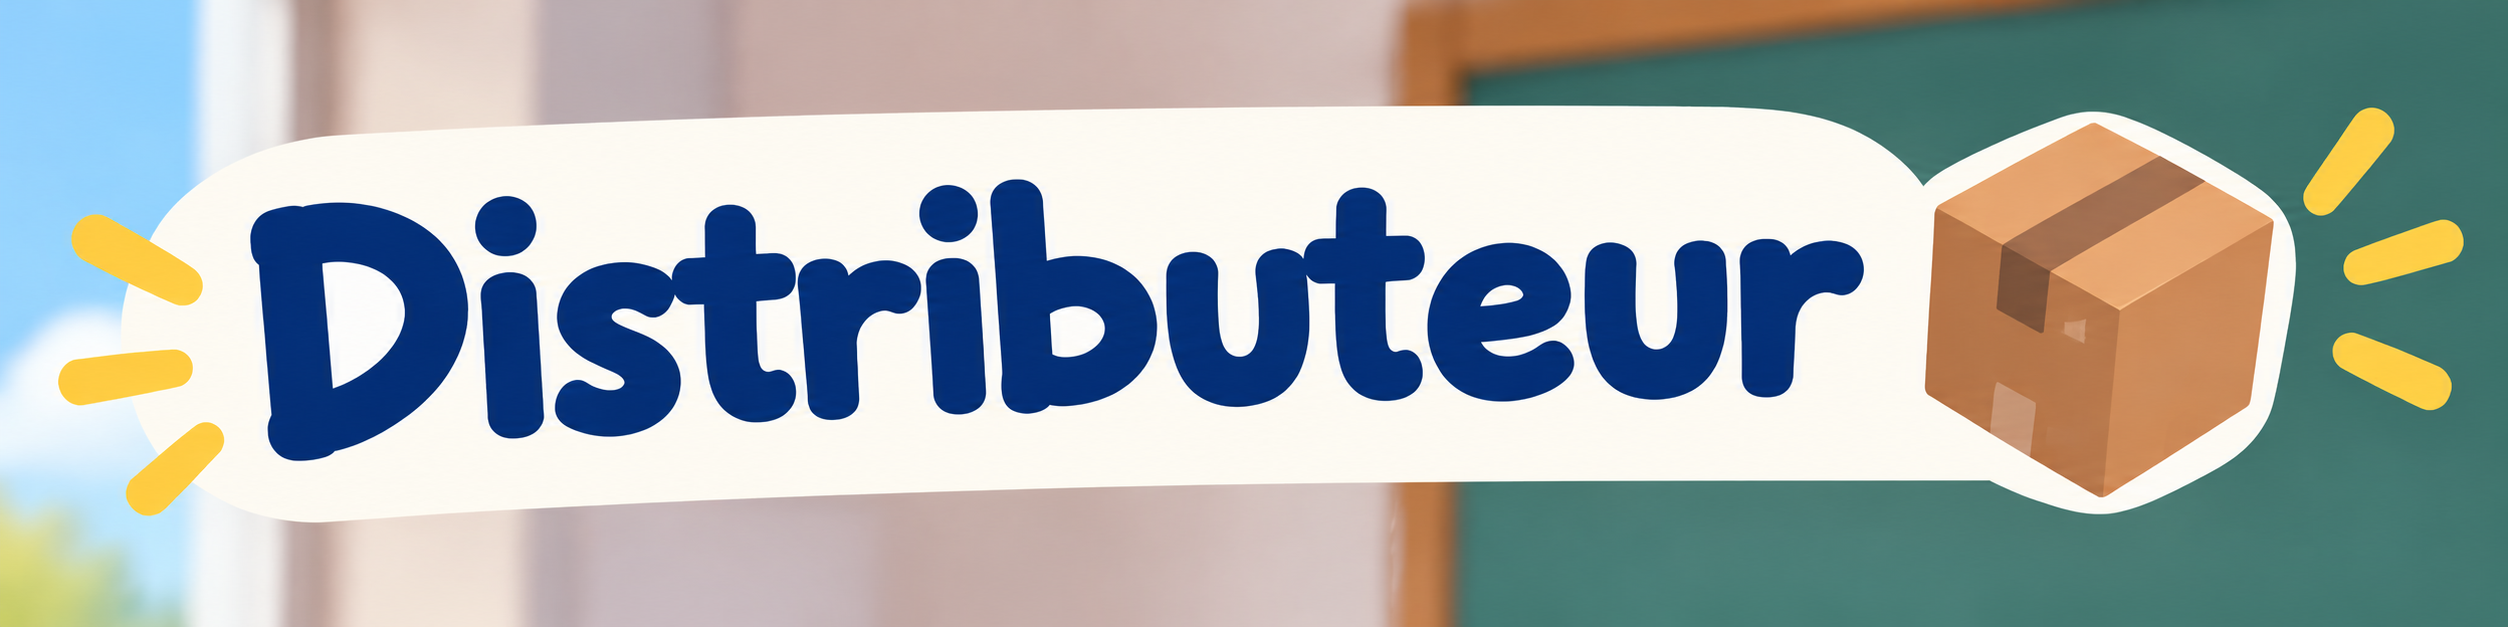
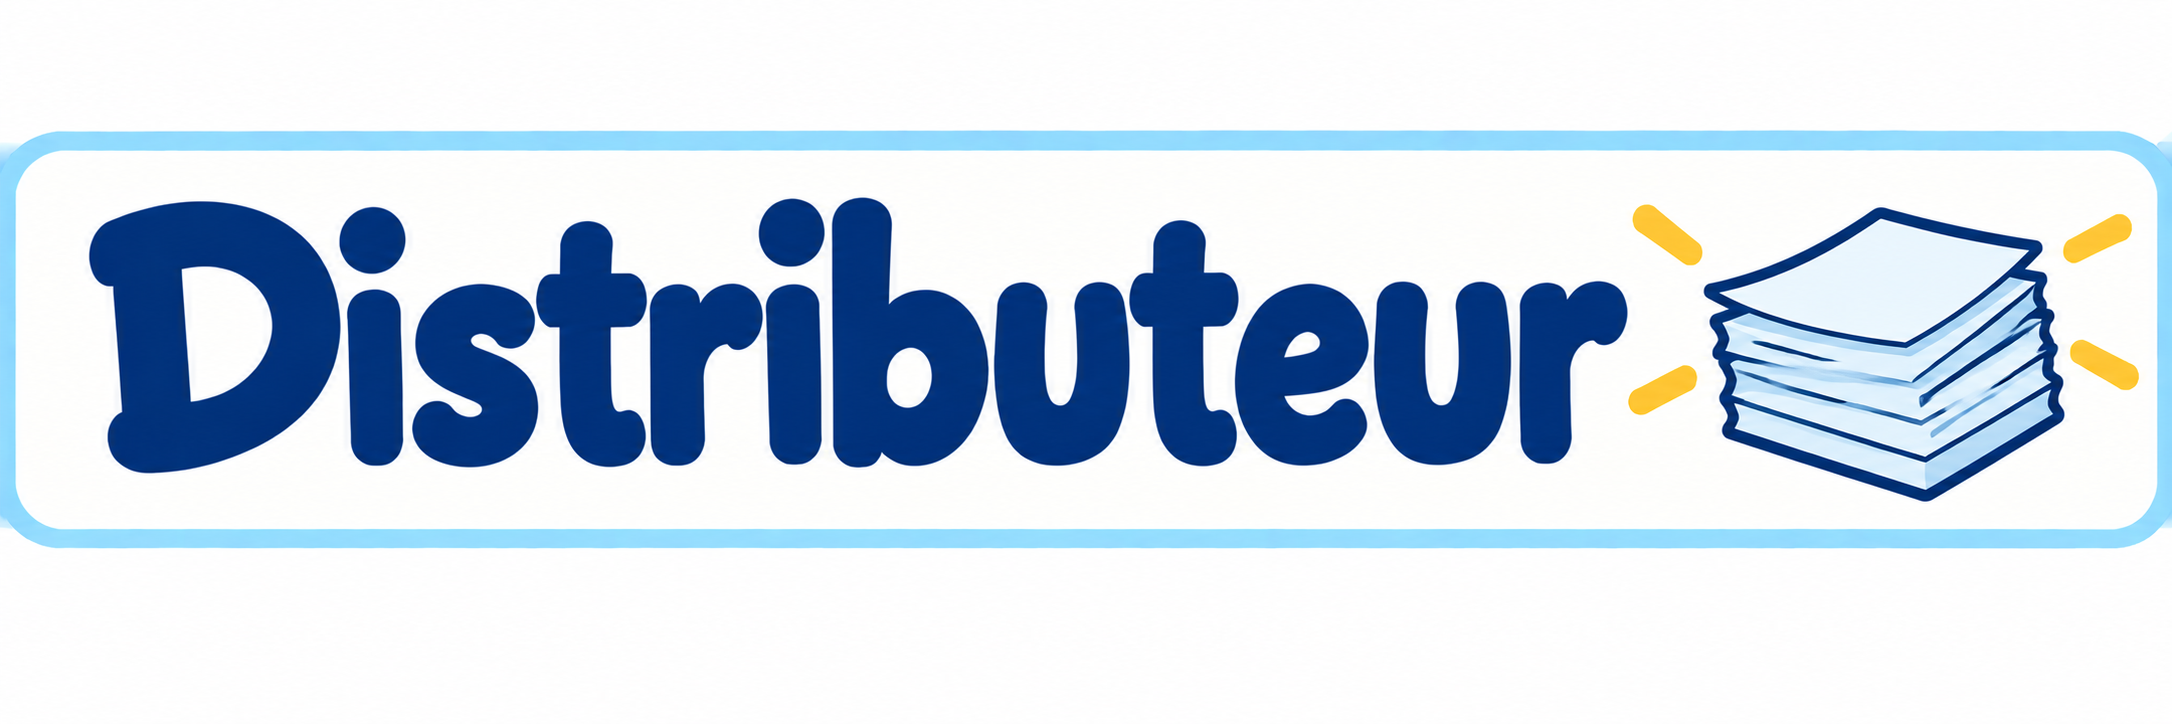
v032

diff --git a/metiers-v032.js b/metiers-v032.js
@@ -1,0 +1,135 @@
+// Espace Enfants CE2 — Mon métier — V0.32
+const ELEVES = Array.isArray(window.NINO_ELEVES) ? window.NINO_ELEVES : [];
+const STUDENTS = ELEVES.map(e => e.prenom);
+
+const JOBS = [
+  {icon:"📦",name:"Distributeur",banner:"assets/metiers/distributeur.png?v=032",detail:"Je distribue et je ramasse les cahiers, fiches et documents.",rule:"Je fais vite, calmement et sans jouer.",fixedPair:true},
+  {icon:"🚶",name:"Chef de rang",banner:"assets/metiers/chef-de-rang.png",detail:"Je conduis le rang calmement et en sécurité.",rule:"Je marche et j’attends le groupe."},
+  {icon:"📚",name:"Bibliothécaire",banner:"assets/metiers/bibliothecaire.png",detail:"Je range et je prends soin des livres.",rule:"Je manipule les livres avec soin."},
+  {icon:"✉",name:"Facteur",banner:"assets/metiers/facteur.png",detail:"Je porte les messages ou documents dans l’école.",rule:"Je vais directement à l’endroit demandé puis je reviens.",fixedPair:true},
+  {icon:"🎤",name:"Animateur du Quoi de neuf",banner:"assets/metiers/animateur-quoi-de-neuf.png",detail:"J’annonce les passages et je distribue la parole.",rule:"Je veille à ce que chacun puisse parler."},
+  {icon:"🧹",name:"Agent d’entretien",banner:"assets/metiers/agent-entretien.png",detail:"J’aide à garder la classe propre et rangée.",rule:"Je n’utilise que le matériel prévu."},
+  {icon:"📝",name:"Écrivain",banner:"assets/metiers/ecrivain.png",detail:"J’écris la date au tableau.",rule:"Je vérifie la date avant de l’écrire."},
+  {icon:"🔐",name:"Gardien",banner:"assets/metiers/gardien.png",detail:"Avec l’accord du maître, je ferme à clé les portes nécessaires.",rule:"Je ne ferme une porte que si le maître le demande."},
+  {icon:"🦜",name:"Perroquet",banner:"assets/metiers/perroquet.png",detail:"Je reformule une consigne importante avec mes mots.",rule:"Je n’ajoute pas de nouvelle consigne."},
+  {icon:"🤫",name:"Gardien du calme",banner:"assets/metiers/gardien-du-calme.png",detail:"J’aide la classe à rester calme.",rule:"Je rappelle gentiment la règle sans commander."}
+];
+
+const FIXED_PAIR = new Set(["Distributeur","Facteur"]);
+const FLEX_STUDENTS = new Set(["Anis","Rayan"]);
+const MORNING_CRITICAL = new Set(["Distributeur","Chef de rang","Animateur du Quoi de neuf","Écrivain","Gardien"]);
+
+const HISTORY_KEY = "nino_metiers_history_v4";
+const CURRENT_PREFIX = "nino_metiers_week_v4_";
+const PERIOD_START_KEY = "nino_metiers_period_start_v2";
+const FALLBACK = "assets/portraits/portrait_neutre.png";
+
+function shuffle(a){a=[...a];for(let i=a.length-1;i>0;i--){const j=Math.floor(Math.random()*(i+1));[a[i],a[j]]=[a[j],a[i]];}return a;}
+function mondayOf(d=new Date()){d=new Date(d.getFullYear(),d.getMonth(),d.getDate());const day=d.getDay();d.setDate(d.getDate()+(day===0?-6:1-day));d.setHours(12,0,0,0);return d;}
+function keyOf(d){return `${d.getFullYear()}-${String(d.getMonth()+1).padStart(2,"0")}-${String(d.getDate()).padStart(2,"0")}`;}
+function fmt(d){return new Intl.DateTimeFormat("fr-FR",{day:"numeric",month:"long",year:"numeric"}).format(d);}
+function esc(s){return String(s??"").replace(/[&<>"']/g,c=>({"&":"&amp;","<":"&lt;",">":"&gt;",'"':"&quot;","'":"&#39;"}[c]));}
+function photo(prenom){const e=ELEVES.find(x=>x.prenom===prenom);return encodeURI(`assets/eleves/${e?.fichier||prenom.replace(/\s+/g,"_")+".jpg"}`)+"?v=029";}
+
+function loadHistory(){try{return JSON.parse(localStorage.getItem(HISTORY_KEY)||"{}")}catch{return {}}}
+function periodStart(currentKey,h){let s=localStorage.getItem(PERIOD_START_KEY);if(s&&s<=currentKey)return s;const ks=Object.keys(h).filter(k=>k<=currentKey).sort();s=ks[0]||currentKey;localStorage.setItem(PERIOD_START_KEY,s);return s;}
+function periodRecords(h,start,current){return Object.entries(h).filter(([k])=>k>=start&&k<=current).sort(([a],[b])=>a.localeCompare(b)).map(([,r])=>r).filter(r=>r?.assignments);}
+
+function stats(records){
+  const s=Object.fromEntries(STUDENTS.map(n=>[n,{jobs:Object.fromEntries(JOBS.map(j=>[j.name,0])),solo:0,pair:0,replacement:0}]));
+  records.forEach(r=>{
+    r.assignments.forEach(a=>a.students.forEach(n=>{if(!s[n])return;s[n].jobs[a.job]++;a.students.length===1?s[n].solo++:s[n].pair++;}));
+    if(r.replacement&&s[r.replacement])s[r.replacement].replacement++;
+  });
+  return s;
+}
+
+function candidate(){
+  const people=shuffle(STUDENTS);
+  const rotating=shuffle(JOBS.filter(j=>!j.fixedPair)).slice(0,3).map(j=>j.name);
+  const paired=new Set([...FIXED_PAIR,...rotating]);
+  const assignments=[];let i=0;
+  JOBS.forEach(j=>{
+    const count=paired.has(j.name)?2:1;
+    assignments.push({job:j.name,students:people.slice(i,i+count)});
+    i+=count;
+  });
+  return {assignments,replacement:shuffle(STUDENTS)[0],rotatingPairJobs:rotating};
+}
+
+function score(c,prev,st){
+  let x=0;
+  c.assignments.forEach(a=>{
+    a.students.forEach(n=>{
+      if(a.students.length===1&&FLEX_STUDENTS.has(n)&&MORNING_CRITICAL.has(a.job))x+=10000;
+      x+=(st[n]?.jobs[a.job]||0)*18;
+      if(a.students.length===1&&st[n]?.solo>st[n]?.pair)x+=(st[n].solo-st[n].pair)*2;
+      if(a.students.length===2&&st[n]?.pair>st[n]?.solo)x+=(st[n].pair-st[n].solo)*2;
+      if(prev){
+        const old=prev.assignments.find(z=>z.students.includes(n));
+        if(old?.job===a.job)x+=25;
+      }
+    });
+  });
+  x+=(st[c.replacement]?.replacement||0)*20;
+  if(prev?.replacement===c.replacement)x+=30;
+  return x;
+}
+
+function makeDraw(weekKey,h){
+  const start=periodStart(weekKey,h), st=stats(periodRecords(h,start,weekKey));
+  const prev=Object.entries(h).filter(([k])=>k<weekKey).sort(([a],[b])=>a.localeCompare(b)).at(-1)?.[1];
+  let best=null,bestScore=Infinity;
+  for(let i=0;i<6000;i++){const c=candidate(),s=score(c,prev,st);if(s<bestScore){best=c;bestScore=s;if(!s)break;}}
+  return {week:weekKey,createdAt:new Date().toISOString(),...best};
+}
+
+function loadDraw(){
+  const monday=mondayOf(), weekKey=keyOf(monday), storageKey=CURRENT_PREFIX+weekKey;
+  let h=loadHistory(), d;
+  try{d=JSON.parse(localStorage.getItem(storageKey)||"null")}catch{}
+  if(!d?.assignments||d.assignments.length!==JOBS.length){
+    d=makeDraw(weekKey,h); localStorage.setItem(storageKey,JSON.stringify(d)); h[weekKey]=d; localStorage.setItem(HISTORY_KEY,JSON.stringify(h));
+  } else if(!h[weekKey]) {h[weekKey]=d;localStorage.setItem(HISTORY_KEY,JSON.stringify(h));}
+  return {d,monday,weekKey,h};
+}
+
+const {d,monday,weekKey}=loadDraw();
+document.querySelector("#week-note").textContent=`🔄 Semaine du lundi ${fmt(monday)}`;
+document.querySelector("#draw-status").textContent="Distributeur et Facteur sont toujours en binôme. Trois autres métiers sont aussi en binôme cette semaine. Le remplaçant a déjà son métier principal.";
+
+const byJob=Object.fromEntries(JOBS.map(j=>[j.name,j]));
+const current=document.querySelector("#current-jobs");
+current.innerHTML=d.assignments.map((a,i)=>{
+  const j=byJob[a.job], repl=a.students.includes(d.replacement);
+  return `<article class="assignment-card${repl?" assignment-card--replacement-role":""}">
+    <button class="assignment-toggle" type="button" aria-expanded="false">
+      <div class="assignment-job"><img class="assignment-job-banner" src="${j.banner}" alt="${esc(j.name)}">${repl?'<span class="replacement-badge">+ remplaçant</span>':""}<span class="assignment-chevron">⌄</span></div>
+      <div class="assignment-students">${a.students.map(n=>`<div class="assignment-student"><span class="assignment-student-photo-wrap"><img class="assignment-student-photo" src="${photo(n)}" alt="Portrait de ${esc(n)}"></span><span class="assignment-student-name">${esc(n)}</span></div>`).join("")}</div>
+    </button>
+    <div class="assignment-detail" hidden><p><strong>Ce que je dois faire :</strong> ${esc(j.detail)}</p><p><strong>⭐ À retenir :</strong> ${esc(j.rule)}</p>${repl?`<div class="replacement-detail"><strong>🔄 Rôle supplémentaire :</strong> si un élève responsable est absent, je prends temporairement son métier en plus du mien.</div>`:""}</div>
+  </article>`;
+}).join("");
+
+document.querySelectorAll(".assignment-student-photo").forEach(img=>img.addEventListener("error",()=>{if(!img.src.includes("portrait_neutre.png"))img.src=FALLBACK},{once:true}));
+document.querySelectorAll(".assignment-toggle").forEach(b=>b.addEventListener("click",()=>{const card=b.closest(".assignment-card"),detail=card.querySelector(".assignment-detail"),open=!detail.hidden;detail.hidden=open;card.classList.toggle("is-open",!open);b.setAttribute("aria-expanded",String(!open));}));
+
+const grid=document.querySelector("#jobs-grid");
+grid.innerHTML=JOBS.map((j,i)=>`<button class="job-card job-card--banner" data-job="${i}" type="button"><img class="job-card-banner" src="${j.banner}" alt="${esc(j.name)}"><span class="job-pair">👥 ${d.assignments.find(a=>a.job===j.name).students.join(" + ")}</span></button>`).join("");
+document.querySelectorAll("[data-job]").forEach(b=>b.addEventListener("click",()=>{const j=JOBS[+b.dataset.job],old=b.querySelector(".job-inline-detail");if(old){old.remove();return;}const x=document.createElement("span");x.className="job-inline-detail";x.innerHTML=`<strong>Ce que je dois faire :</strong> ${esc(j.detail)}<br><strong>⭐ À retenir :</strong> ${esc(j.rule)}`;b.appendChild(x)}));
+
+const panel=document.querySelector("#all-jobs-panel"), show=document.querySelector("#show-all-jobs");
+show.addEventListener("click",()=>{panel.hidden=!panel.hidden;show.textContent=panel.hidden?"📋 Voir les métiers":"✕ Masquer les métiers";if(!panel.hidden)panel.scrollIntoView({behavior:"smooth",block:"start"});});
+
+// Compteur période
+const statsPanel=document.querySelector("#period-stats-panel"), statsGrid=document.querySelector("#period-stats-grid"), statsSummary=document.querySelector("#period-stats-summary");
+document.querySelector("#show-period-stats").addEventListener("click",e=>{
+  const open=statsPanel.hidden; statsPanel.hidden=!open; e.currentTarget.textContent=open?"✕ Masquer la répartition":"📊 Répartition de la période";
+  if(open){renderStats();statsPanel.scrollIntoView({behavior:"smooth",block:"start"});}
+});
+function renderStats(){
+  const h=loadHistory(), start=periodStart(weekKey,h), recs=periodRecords(h,start,weekKey), s=stats(recs);
+  statsSummary.textContent=`${recs.length} semaine(s) comptabilisée(s) depuis le ${start.split("-").reverse().join("/")}.`;
+  statsGrid.innerHTML=STUDENTS.map(n=>`<article class="period-student-card"><div class="period-student-head"><strong>${esc(n)}</strong><span>${s[n].solo+s[n].pair} semaine(s)</span></div><div class="period-balance"><span>👤 Seul : <b>${s[n].solo}</b></span><span>👥 Binôme : <b>${s[n].pair}</b></span><span>🔄 Remplaçant : <b>${s[n].replacement}</b></span></div><div class="period-job-counts">${JOBS.filter(j=>s[n].jobs[j.name]).map(j=>`<span class="period-job-chip">${j.icon} ${esc(j.name)} <b>×${s[n].jobs[j.name]}</b></span>`).join("")||'<span class="period-empty">Aucun métier comptabilisé</span>'}</div></article>`).join("");
+}
+document.querySelector("#period-reset-button").addEventListener("click",()=>{if(confirm("Commencer une nouvelle période ?")){localStorage.setItem(PERIOD_START_KEY,weekKey);renderStats();}});

diff --git a/mon-metier.html b/mon-metier.html
@@ -3,7 +3,7 @@
 <head>
   <meta charset="UTF-8">
   <meta name="viewport" content="width=device-width, initial-scale=1.0">
-  <title>Mon métier — Nino — V0.31</title>
+  <title>Mon métier — Nino — V0.32</title>
   <link rel="stylesheet" href="style.css">
   <link rel="stylesheet" href="mon-metier-v031.css">
 </head>
@@ -54,10 +54,10 @@
       <div class="jobs-grid" id="jobs-grid"></div>
     </section>
 
-    <div class="version-badge">V0.31</div>
+    <div class="version-badge">V0.32</div>
   </main>
 
   <script src="eleves-manifest.js"></script>
-  <script src="metiers-v031.js"></script>
+  <script src="metiers-v032.js"></script>
 </body>
 </html>

diff --git a/index.html b/index.html
@@ -3,7 +3,7 @@
 <head>
   <meta charset="UTF-8">
   <meta name="viewport" content="width=device-width, initial-scale=1.0">
-  <title>Notre classe CE2 — Nino — V0.31</title>
+  <title>Notre classe CE2 — Nino — V0.32</title>
   <link rel="stylesheet" href="style.css">
   <link rel="stylesheet" href="accueil-v018.css">
 </head>
@@ -26,7 +26,7 @@
       </a>
     </section>
 
-    <div class="version-badge">V0.31</div>
+    <div class="version-badge">V0.32</div>
   </main>
 </body>
 </html>

diff --git a/README.md b/README.md
@@ -1,18 +1,6 @@
-# V0.31 — Bannières des métiers
+# V0.32 — bannière Distributeur
 
-Dans la page **Mon métier**, les titres texte + emoji sont remplacés par les bannières illustrées validées pour les 10 métiers :
-
-- Distributeur
-- Chef de rang
-- Bibliothécaire
-- Facteur
-- Animateur quoi de neuf
-- Agent d’entretien
-- Écrivain
-- Gardien
-- Perroquet
-- Gardien du calme
-
-Les bannières sont utilisées dans la répartition hebdomadaire et dans « Voir les métiers ».
-Le badge **+ remplaçant**, les photos, les rotations et les compteurs restent inchangés.
-La page d’accueil est également synchronisée en **V0.31**.
+- Remplace uniquement la bannière **Distributeur** par la dernière image validée (pile de feuilles).
+- Ajout d’un cache-busting `?v=032` pour forcer l’affichage de la nouvelle image.
+- Synchronisation du numéro de version en V0.32.
+- Aucun changement dans les rotations, les métiers, les photos ou les compteurs.
